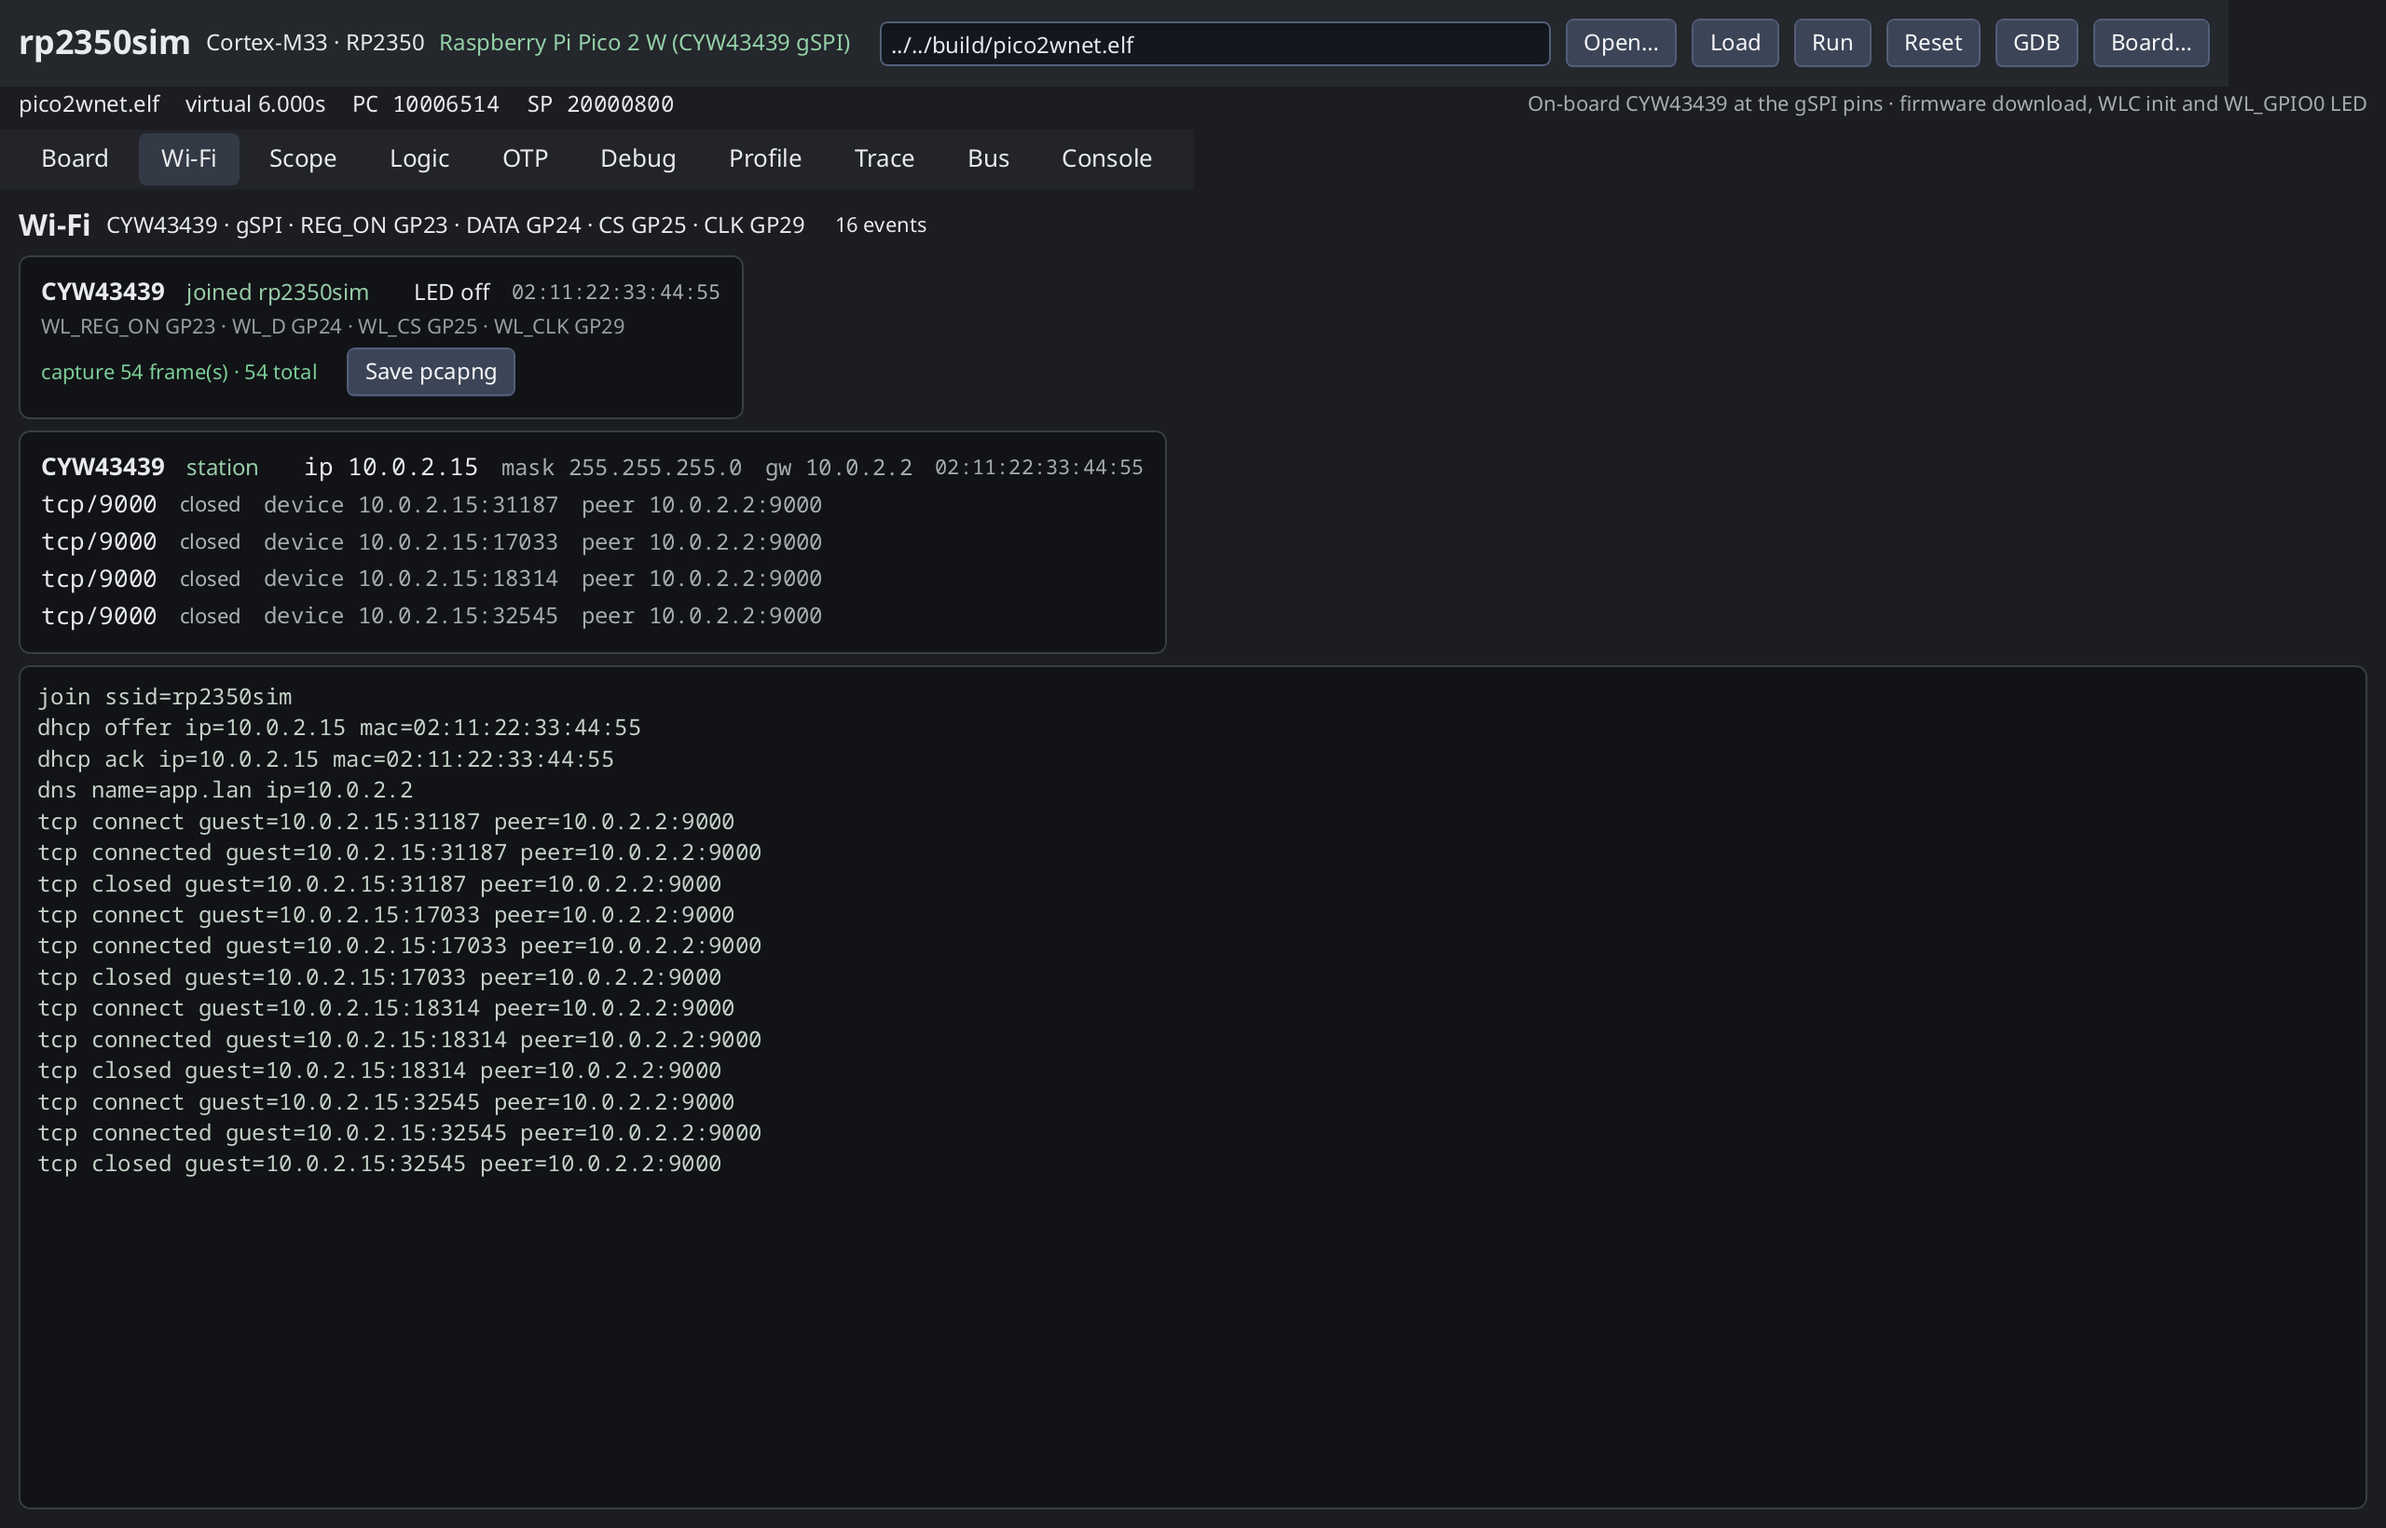
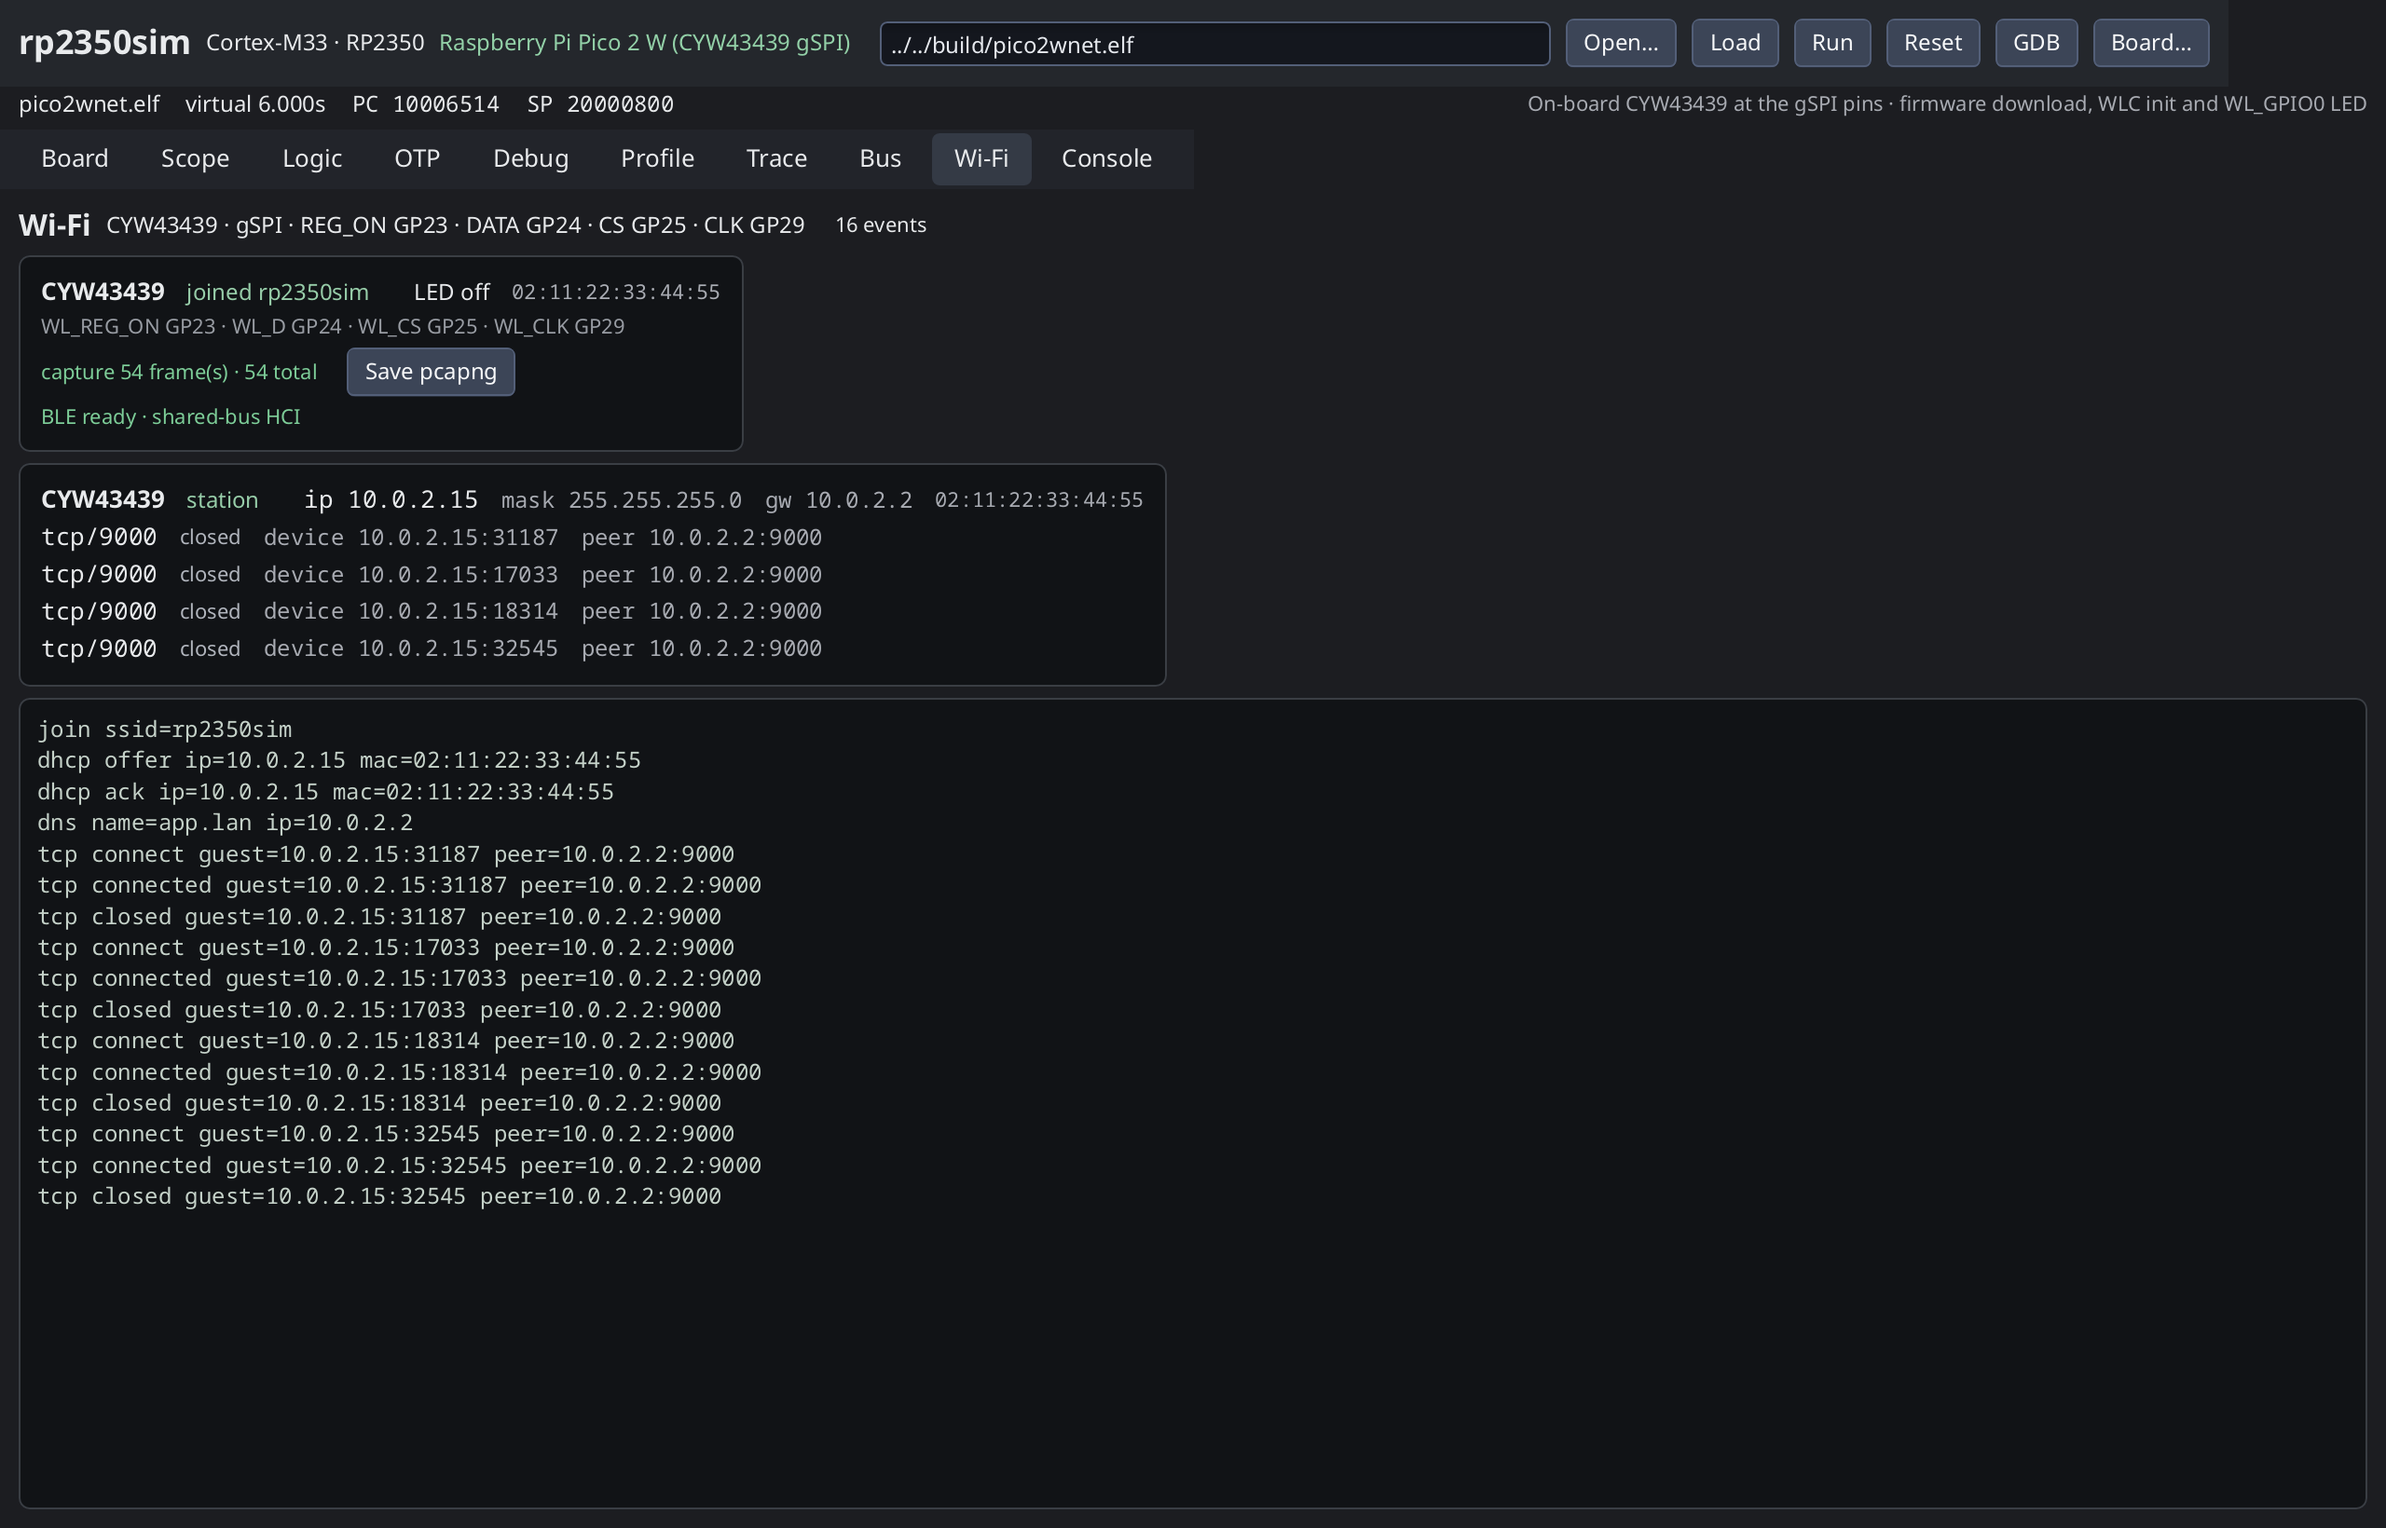
ui: group UART bytes and reorder device tabs

diff --git a/cmd/simui/main.go b/cmd/simui/main.go
@@ -619,12 +619,6 @@ func tabsBar(snap MachineState) {
 		if selectedBoard.HSTX {
 			tabButton("DVI", tabDVI)
 		}
-		if selectedBoard.Ethernet != nil {
-			tabButton("Ethernet", tabEth)
-		}
-		if selectedBoard.Wifi != nil {
-			tabButton("Wi-Fi", tabEth)
-		}
 		if selectedBoard.WS2812 != nil {
 			tabButton("LEDs", tabWS)
 		}
@@ -644,6 +638,12 @@ func tabsBar(snap MachineState) {
 		tabButton("Profile", tabProfile)
 		tabButton("Trace", tabTrace)
 		tabButton("Bus", tabBus)
+		if selectedBoard.Ethernet != nil {
+			tabButton("Ethernet", tabEth)
+		}
+		if selectedBoard.Wifi != nil {
+			tabButton("Wi-Fi", tabEth)
+		}
 		if boardHasPlugins(selectedBoard) {
 			tabButton("Plugins", tabPlugins)
 		}
@@ -3458,6 +3458,81 @@ func pluginTotalLines(plugins []PluginInfo) int {
 // uartPanel shows the raw hardware UART byte stream, both directions and both
 // controllers. It is the wire log the device tabs and plugin models do not
 // show.
+// uartLineBytes is the maximum number of bytes grouped into one log line. A
+// newline also ends the line, so firmware output stays line-oriented.
+const uartLineBytes = 64
+
+type uartLogLine struct {
+	cycle uint64
+	bus   int
+	in    bool
+	data  []byte
+}
+
+// groupUART turns the byte stream into contiguous same-direction runs, split
+// at newlines and every uartLineBytes bytes.
+func groupUART(events []UARTEvent) []uartLogLine {
+	var out []uartLogLine
+	var cur *uartLogLine
+	flush := func() {
+		if cur != nil {
+			out = append(out, *cur)
+			cur = nil
+		}
+	}
+	for _, e := range events {
+		if cur == nil || cur.bus != e.Bus || cur.in != e.In || len(cur.data) >= uartLineBytes {
+			flush()
+			cur = &uartLogLine{cycle: e.Cycle, bus: e.Bus, in: e.In}
+		}
+		cur.data = append(cur.data, e.Data)
+		if e.Data == '\n' || len(cur.data) >= uartLineBytes {
+			flush()
+		}
+	}
+	flush()
+	return out
+}
+
+// uartClear renders bytes as readable text, keeping the line printable even
+// when the protocol is binary.
+func uartClear(data []byte) string {
+	var b strings.Builder
+	for _, c := range data {
+		switch c {
+		case '\n':
+			b.WriteString("\\n")
+		case '\r':
+			b.WriteString("\\r")
+		case '\t':
+			b.WriteString("\\t")
+		default:
+			if c >= 0x20 && c < 0x7f {
+				b.WriteByte(c)
+			} else {
+				b.WriteByte('.')
+			}
+		}
+	}
+	return b.String()
+}
+
+func (l uartLogLine) String(base uint64) string {
+	dir := "TX"
+	if l.in {
+		dir = "RX"
+	}
+	var hex strings.Builder
+	for i, b := range l.data {
+		if i > 0 {
+			hex.WriteByte(' ')
+		}
+		fmt.Fprintf(&hex, "%02x", b)
+	}
+	return fmt.Sprintf("%9.3fms UART%d %s  \"%s\" | %s",
+		float64(l.cycle-base)/150e3, l.bus, dir, uartClear(l.data), hex.String())
+}
+
 func uartPanel(snap MachineState) {
 	events := emu.UARTEvents()
 	Container(Attrs(Grow(1), Expand, Gap(10)), func() {
@@ -3493,26 +3568,17 @@ func uartPanel(snap MachineState) {
 					Label("no UART traffic yet", FontSize(11), TextColor(220, 6, 62, 1))
 					return
 				}
-				base := events[0].Cycle
-				show := events
-				if len(show) > 512 {
-					show = show[len(show)-512:]
+				lines := groupUART(events)
+				if len(lines) > 512 {
+					lines = lines[len(lines)-512:]
 				}
-				for _, e := range show {
-					Label(uartEventLine(base, e), Fonts(Monospace...), FontSize(10),
+				base := events[0].Cycle
+				for _, line := range lines {
+					Label(line.String(base), Fonts(Monospace...), FontSize(10),
 						TextColor(220, 6, 68, 1))
 				}
 			})
 	})
-}
-
-func uartEventLine(base uint64, e UARTEvent) string {
-	dir := "TX"
-	if e.In {
-		dir = "RX"
-	}
-	return fmt.Sprintf("%9.3fms UART%d %s 0x%02x %q",
-		float64(e.Cycle-base)/150e3, e.Bus, dir, e.Data, string(rune(e.Data)))
 }
 
 func uartBytesText(events []UARTEvent) string {
@@ -3521,8 +3587,8 @@ func uartBytesText(events []UARTEvent) string {
 	}
 	base := events[0].Cycle
 	var b strings.Builder
-	for _, e := range events {
-		b.WriteString(uartEventLine(base, e))
+	for _, line := range groupUART(events) {
+		b.WriteString(line.String(base))
 		b.WriteByte('\n')
 	}
 	return b.String()

diff --git a/cmd/simui/uart_test.go b/cmd/simui/uart_test.go
@@ -1,0 +1,38 @@
+package main
+
+import "testing"
+
+func TestGroupUART(t *testing.T) {
+	var events []UARTEvent
+	for _, c := range []byte("abc\ndef") {
+		events = append(events, UARTEvent{Bus: 1, Data: c})
+	}
+	lines := groupUART(events)
+	if len(lines) != 2 {
+		t.Fatalf("lines = %d, want 2", len(lines))
+	}
+	if got := string(lines[0].data); got != "abc\n" {
+		t.Fatalf("first line = %q", got)
+	}
+	if got := string(lines[1].data); got != "def" {
+		t.Fatalf("second line = %q", got)
+	}
+
+	long := make([]UARTEvent, 70)
+	for i := range long {
+		long[i] = UARTEvent{Bus: 0, Data: 'a'}
+	}
+	lines = groupUART(long)
+	if len(lines) != 2 || len(lines[0].data) != uartLineBytes || len(lines[1].data) != 6 {
+		t.Fatalf("64-byte split = %d lines (%d, %d)", len(lines), len(lines[0].data), len(lines[1].data))
+	}
+
+	lines = groupUART([]UARTEvent{
+		{Bus: 1, Data: 'I'},
+		{Bus: 1, In: true, Data: 'R'},
+		{Bus: 1, Data: 'I'},
+	})
+	if len(lines) != 3 {
+		t.Fatalf("direction change = %d lines, want 3", len(lines))
+	}
+}

diff --git a/docs/ui.md b/docs/ui.md
@@ -587,11 +587,12 @@ with **Clear** and **Copy** buttons. See [device plugins](plugins.md).
 
 The **UART** tab is the raw hardware UART byte log, separate from the firmware
 console. It shows both directions (`TX` firmware→device, `RX` device→firmware)
-and both controllers, with a timestamp, hex byte and ASCII rendering. Use it
-for a `serial_plugins` device on UART1 while the firmware's console stays on
-UART0. **Copy** exports the log and **Clear** empties it; the tab appears when
-the board configures a UART plugin or a logic-analyzer UART, or once any UART
-byte has moved.
+and both controllers. Bytes are grouped into readable lines of up to 64 bytes
+(and split at newlines), with the clear text and the hex bytes on the same
+line. Use it for a `serial_plugins` device on UART1 while the firmware's
+console stays on UART0. **Copy** exports the grouped log and **Clear** empties
+it; the tab appears when the board configures a UART plugin or a logic-analyzer
+UART, or once any UART byte has moved.
 
 ![UART byte log](images/uart.png)
 

diff --git a/docs/peripherals.md b/docs/peripherals.md
@@ -44,7 +44,7 @@ commands and UI steps; the register-level wiring lives in
 | Oscilloscope | power trace + `pincheck` | Scope | `pico2-analog` |
 | Bus Pirate target | `-i2c-tcp`, `-spi-tcp` | `i2c_tcp` / `spi_tcp`, Bus | `busmaster`, `busdevice` |
 | Built-in bus presets | `-i2c-preset`, `-spi-preset`, `-list-presets` | `i2c_presets` / `spi_presets`, Bus | `presets` |
-| Scripted I2C/SPI/UART devices | `-i2c-plugin`, `-spi-plugin`, `-uart-plugin` | `i2c_plugins` / `spi_plugins` / `serial_plugins`, Bus and Console | `plugins/examples` |
+| Scripted I2C/SPI/UART devices | `-i2c-plugin`, `-spi-plugin`, `-uart-plugin` | `i2c_plugins` / `spi_plugins` / `serial_plugins`, Plugins and UART | `plugins/examples` |
 | 1-Wire DS18B20 | `-onewire PIN[:C]` | `onewire`, Board | `onewire` |
 | DHT11/DHT22 | `-dht PIN[:KIND[:HUM[:TEMP]]]` | `dht`, Board | `dht` |
 | HC-SR04 ultrasonic | `-ultrasonic TRIG:ECHO[:CM]` | `ultrasonic`, Board | `ultrasonic` |
